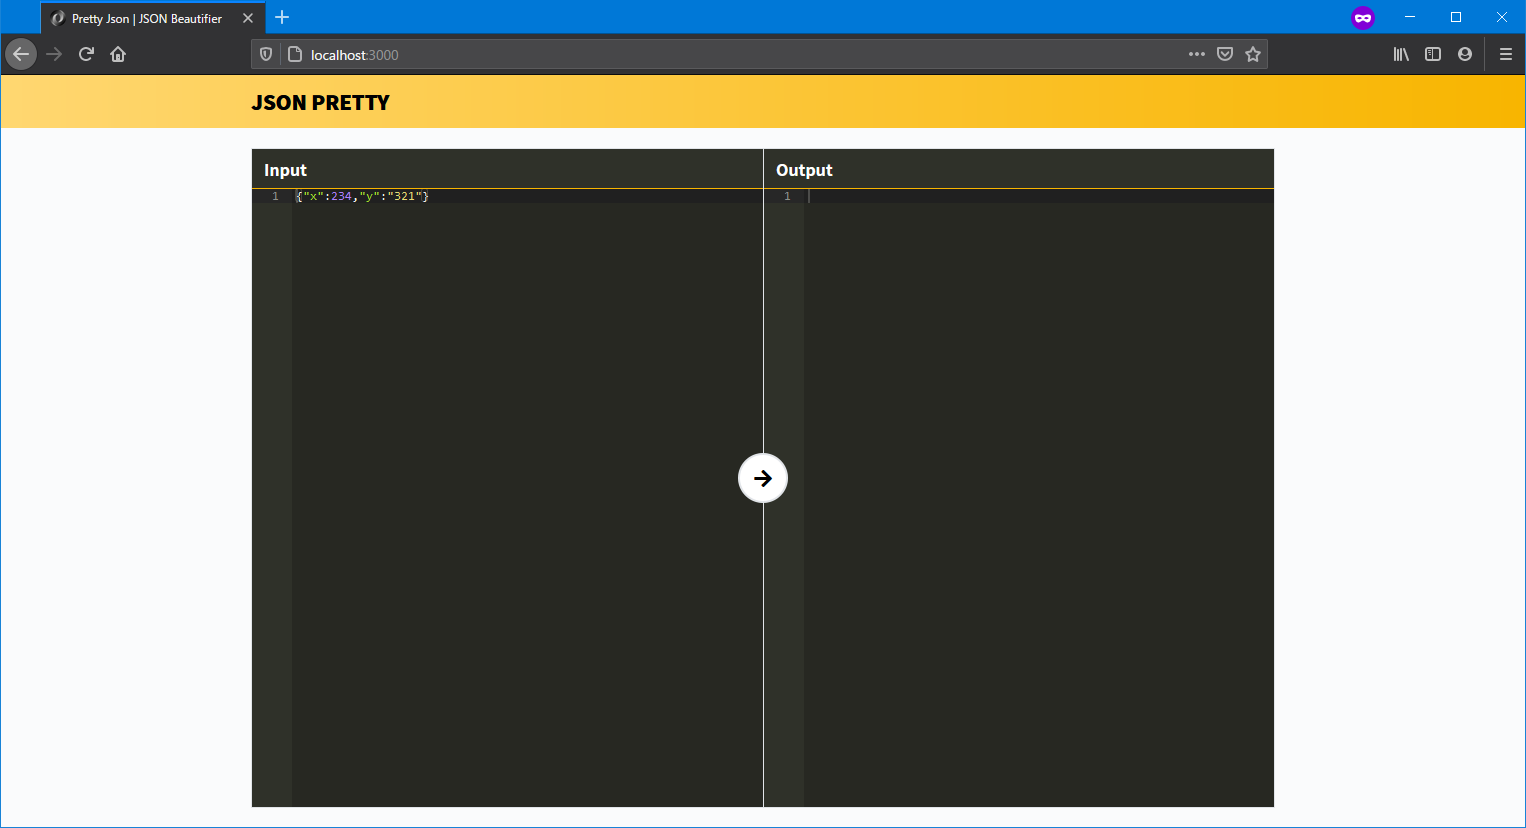
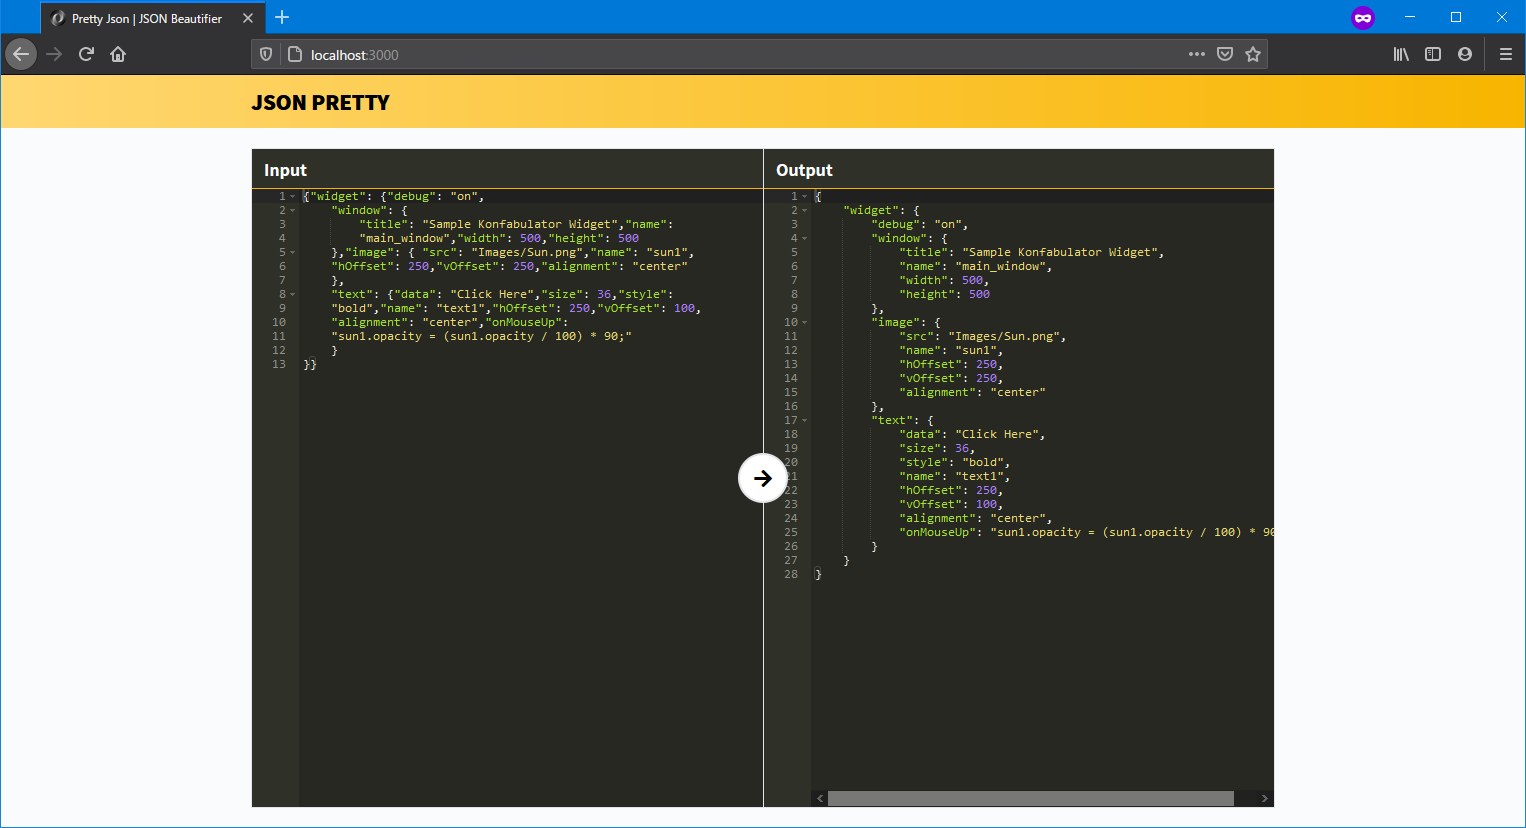
update for examples

diff --git a/pretty-json/components/Main.vue b/pretty-json/components/Main.vue
@@ -4,7 +4,19 @@
       <div class="left">
         <div class="block horizontal-connected">
           <div class="editor-header">Input</div>
-          <div id="editor-left">{"x":234,"y":"321"}</div>
+          <div id="editor-left">{"widget": {"debug": "on",
+    "window": {
+        "title": "Sample Konfabulator Widget","name": 
+		"main_window","width": 500,"height": 500
+    },"image": { "src": "Images/Sun.png","name": "sun1",
+	"hOffset": 250,"vOffset": 250,"alignment": "center"
+    },
+    "text": {"data": "Click Here","size": 36,"style": 
+	"bold","name": "text1","hOffset": 250,"vOffset": 100,
+	"alignment": "center","onMouseUp": 
+	"sun1.opacity = (sun1.opacity / 100) * 90;"
+    }
+}} </div>
         </div>
       </div>
       <div class="right">
